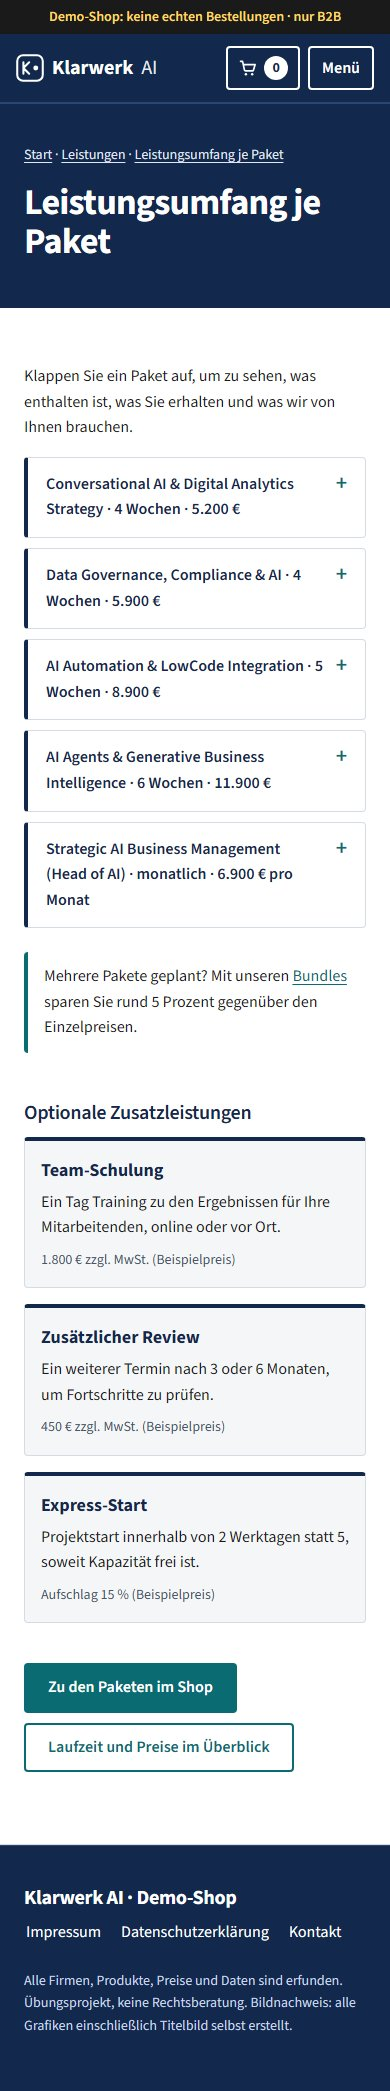
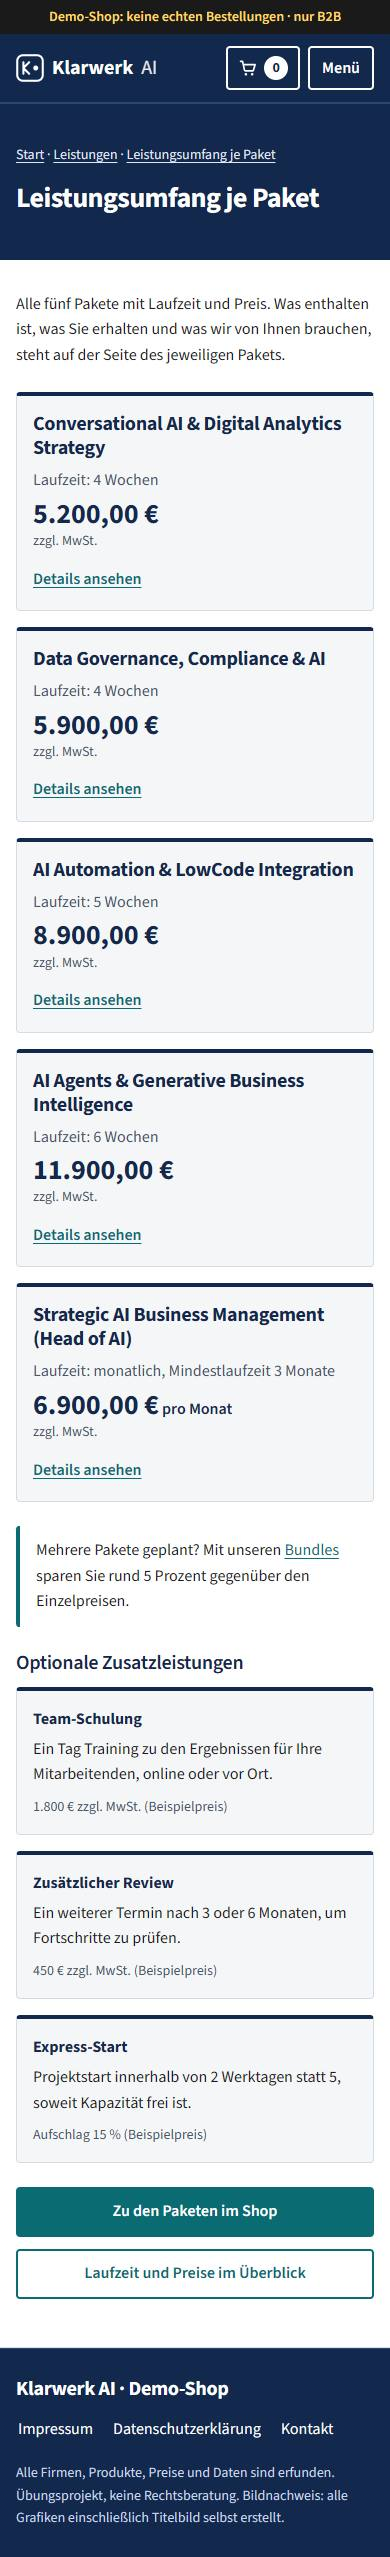
Rückweg-Link korrigiert, Vorschau-Screenshots neu
- potenzial-check.html: „Zurück zur Orientierung“ führt zur Orientierung
  der Startseite statt zur Service-Seite
- vorschau/: 45 ganzseitige Screenshots aller 15 Seiten (1440, 768,
  390 px), Warenkorb mit Beispielinhalt
- README, Abnahme-Checkliste, Entscheidungsprotokoll, Ordnerstruktur
  angepasst

diff --git a/website/orientierung/potenzial-check.html b/website/orientierung/potenzial-check.html
@@ -41,7 +41,7 @@
   <main id="inhalt">
     <div class="wrap">
       <article class="doc">
-        <p class="klein nicht-druck"><a href="../service/index.html">← Zurück zur Orientierung</a></p>
+        <p class="klein nicht-druck"><a href="../index.html#orientierung">← Zurück zur Orientierung</a></p>
         <p class="nur-druck klein">Klarwerk AI · Demo-Shop · Alle Angaben sind erfunden</p>
         <h1>Angebot: KI-Potenzial-Check</h1>
         <p class="meta">Stand 24.11.2026 · gültig bis 24.12.2026 · Klarwerk AI (erfundenes Unternehmen), Geschäftsführung Rachid Eddouks</p>

diff --git a/docs/Entscheidungsprotokoll.md b/docs/Entscheidungsprotokoll.md
@@ -18,7 +18,7 @@
 | Paket 4 | Leistungstext mit Hinweis „keine Rechtsberatung“ |
 | Kundenkreis | nur Unternehmen (B2B), Preise netto |
 | B2B-Hinweis | 25.11.2026: In der Demo-Leiste oben auf allen 7 Seiten: „Angebot ausschließlich für Unternehmen (B2B), alle Preise netto zzgl. MwSt.“ (gleiche Farben, Kontrast unverändert) |
-| Vorschaubilder | 25.11.2026: 21 Screenshots neu erzeugt (1440, 768, 390 px), kein seitliches Überlaufen |
+| Vorschaubilder | 25.11.2026: 21 Screenshots neu erzeugt (1440, 768, 390 px), kein seitliches Überlaufen. 26.11.2026: nach der Design-Überarbeitung 45 Screenshots aller 15 Seiten (Edge ohne Fenster über den lokalen Server, ganzseitig, JPG); Warenkorb mit Beispielinhalt Strategie + 3 Monate Head of AI |
 | Bundles | 25.11.2026: drei Bundles, jedes Paket bleibt einzeln buchbar. Startpaket (1 + 4) 10.600 €, Umsetzungspaket (3 + 2) 19.800 €, Komplettpaket (1 + 4 + 3 + 2) 30.000 €; Ersparnis 4,5 bis 6 %, immer über Aufwand plus 10 %. Paket 5 nicht enthalten, monatlich dazubuchbar. Umgesetzt auf der Startseite (unter den Paketen) und in der Leistungsübersicht |
 | Design-Feinschliff | 25.11.2026: Warenkorb auf allen Seiten mit Zähler über Seitenwechsel, kurze Einblendung statt Meldungskasten, Handy-Kopf einzeilig und Demo-Leiste kurz, Preise 24 px, Bundles mit Abstand und Etikett „Sie sparen“, einheitliche linke Kante im Produktbereich, Kopf mitlaufend, Preise und Warenkorb im Leistungsumfang, Team mit Initialen, flachere Bilder am Handy, Favicon, Menü mit Trennlinien. Sicherung vorher: C:\projekte\klarwerk_ai_sicherung_2026-11-25_vor-design |
 | Startbild | 25.11.2026: Eigene Grafik als Vorschlag erstellt (archiv/hero-entwuerfe/start-vorschlag-2026-11-25.svg), noch nicht eingebaut; Entscheidung offen, weil eigene Entwürfe früher verworfen wurden |

diff --git a/README.md b/README.md
@@ -20,7 +20,7 @@ Alternativ lokale Vorschau mit Node.js (ohne Zusatzpakete): `node .claude/vorsch
 | `.github/workflows/pages.yml` | veröffentlicht `website/` mit GitHub Pages |
 | `docs/` | Konzept, Projektanweisungen, Designsystem, Entscheidungen, Abnahme-Checkliste, Bildnachweise, Ordnerstruktur |
 | `CLAUDE.md` | Regeln für Claude (Kurzfassung aus `docs/`) |
-| `vorschau/` | ganzseitige Screenshots der ursprünglichen 7 Seiten bei 1440 px (Rechner), 768 px (Tablet), 390 px (Handy), Stand 25.11.2026 |
+| `vorschau/` | 45 ganzseitige Screenshots aller 15 Seiten bei 1440 px (Rechner), 768 px (Tablet), 390 px (Handy), Stand 26.11.2026; Warenkorb mit Beispielinhalt |
 | `archiv/hero-entwuerfe/` | verworfene eigene Entwürfe für das Startbild (SVG) |
 
 Das frühere Titelbild (Pixabay) liegt nur noch außerhalb des Projekts in `C:\projekte\klarwerk_ai_privat\` und ist nicht Teil des Repositorys.
@@ -46,4 +46,4 @@ Fertig und geprüft (siehe `docs/Abnahme-Checkliste.md`). Offene Punkte: Impress
 
 26.11.2026: Produktseiten, Warenkorb mit Summen (localStorage), Veröffentlichung mit GitHub Pages.
 
-26.11.2026: Design-Überarbeitung (Punkte 1 bis 16, einzeln freigegeben, siehe `docs/Entscheidungsprotokoll.md`). Die Screenshots in `vorschau/` zeigen noch den Stand vom 25.11.2026.
+26.11.2026: Design-Überarbeitung (Punkte 1 bis 16, einzeln freigegeben, siehe `docs/Entscheidungsprotokoll.md`). Danach Rückweg-Link auf `potenzial-check.html` korrigiert und Screenshots in `vorschau/` für alle 15 Seiten neu erzeugt.

diff --git a/docs/Abnahme-Checkliste.md b/docs/Abnahme-Checkliste.md
@@ -13,7 +13,7 @@
 | Alle Bilder lizenzfrei, Bildnachweis | erfüllt (alle Grafiken selbst erstellt, seit 25.11.2026) |
 | Alternativtexte für Bilder | erfüllt (kein Bild ohne Alt-Attribut; die vier Team-Avatare sind Schmuck und haben leeren Alt-Text, der Name steht darunter) |
 | Sprache der Seiten (lang=de) | erfüllt |
-| Links und Anker | geprüft 26.11.2026 auf allen 15 Seiten: keine defekten internen Links. Bekannt: Auf `potenzial-check.html` führt „Zurück zur Orientierung“ zur Service-Seite (bestand schon vorher, offen) |
+| Links und Anker | geprüft 26.11.2026 auf allen 15 Seiten: keine defekten internen Links. „Zurück zur Orientierung“ auf `potenzial-check.html` führt seit 26.11.2026 zur Orientierung der Startseite (vorher zur Service-Seite) |
 | Kontrast WCAG AA | Text auf Weiß 17,4 : 1 · Hinweise 7,5 : 1 · Weiß auf Nachtblau 14,7 : 1 · Weiß auf Petrolgrün 6,2 : 1 · Hell auf Nachtblau 11,9 : 1 · Text auf Hellblau (Kontaktbox) 14,6 : 1 · Petrolgrün auf Hellblau 5,2 : 1 (alle über 4,5 : 1) |
 | Tippflächen | keine Links, Knöpfe oder Aufklapper unter 24 px Höhe (Links im Fließtext ausgenommen) |
 | Schriftgrößen | sechs Stufen: 14, 16, 20, 28, 40, 56 px (Mindestschrift 14 px) |

diff --git a/docs/Ordnerstruktur.md b/docs/Ordnerstruktur.md
@@ -25,7 +25,7 @@ Klarwerk-AI/
 │   ├── leistungen/ (index.html, paketumfang.html: Kurzübersicht mit Links auf die Produktseiten)
 │   ├── produkte/ (strategie.html, governance.html, automatisierung.html, agenten-bi.html, head-of-ai.html; seit 26.11.2026)
 │   └── service/ (index.html, faq.html)
-├── vorschau/ (21 ganzseitige Screenshots: 7 Seiten x 1440, 768, 390 px, Stand 25.11.2026)
+├── vorschau/ (45 ganzseitige Screenshots: 15 Seiten x 1440, 768, 390 px, Stand 26.11.2026; Namen seite_geraet-breite.jpg, Produktseiten als produkt-…)
 └── archiv/ (hero-entwuerfe/: verworfene SVG-Entwürfe)
 ```
 Außerhalb des Projekts: `C:\projekte\klarwerk_ai_privat\` (Pixabay-Original und früheres Titelfoto, nicht im Repository).
